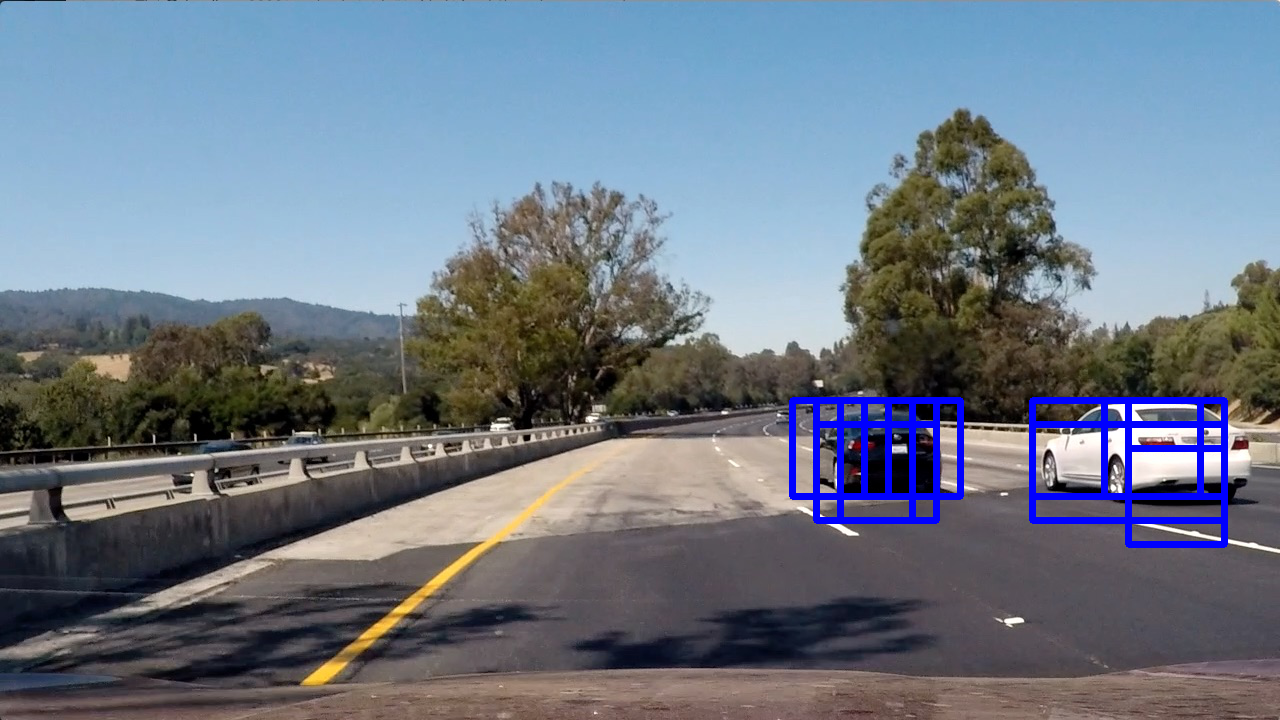
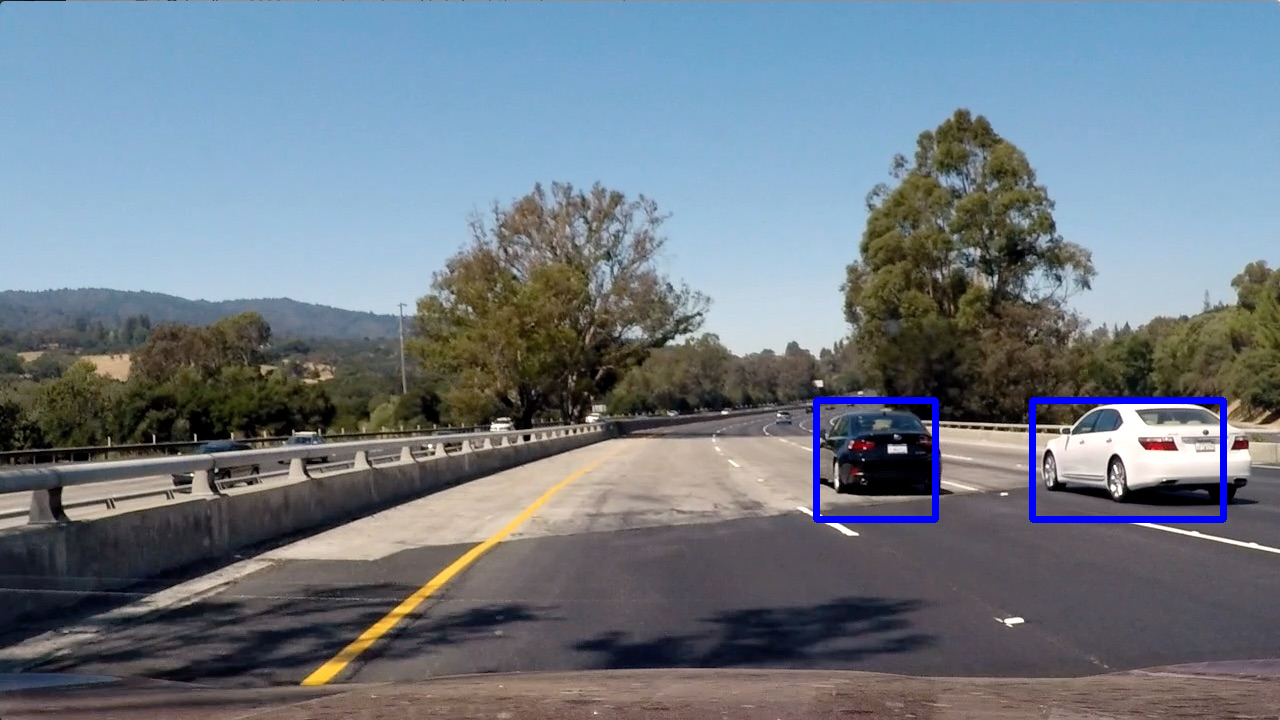
Draw boxes

Changed region(s): [[0.8125, 0.55, 0.9688, 0.7639], [0.5938, 0.55, 0.75, 0.7333]]

diff --git a/pipeline.py b/pipeline.py
@@ -5,6 +5,7 @@ import pickle
 import matplotlib.pyplot as plt
 import matplotlib.image as mpimg
 from lesson_functions import *
+from scipy.ndimage.measurements import label
 
 dist_pickle = pickle.load( open("svc_pickle.p", "rb" ) )
 svc = dist_pickle["svc"]
@@ -42,9 +43,32 @@ class Pipeline():
         ystop = 656
         scale = 1.5
 
-        out_img = find_cars(self.image, ystart, ystop, scale, svc, X_scaler, orient, pix_per_cell, cell_per_block, spatial_size, hist_bins)
+        out_img, img_boxes = find_cars(self.image, ystart, ystop, scale, svc, X_scaler, orient, pix_per_cell, cell_per_block, spatial_size, hist_bins)
 
-        return out_img
+        heat = np.zeros_like(self.image[:,:,0]).astype(np.float)
+        heat = add_heat(heat, img_boxes)
+
+        # Apply threshold to help remove false positives
+        heat = apply_threshold(heat,1)
+
+        # Visualize the heatmap when displaying
+        heatmap = np.clip(heat, 0, 255)
+
+        # Find final boxes from heatmap using label function
+        labels = label(heatmap)
+        draw_img = draw_labeled_bboxes(np.copy(self.image), labels)
+
+        fig = plt.figure()
+        plt.subplot(121)
+        plt.imshow(draw_img)
+        plt.title('Car Positions')
+        plt.subplot(122)
+        plt.imshow(heatmap, cmap='hot')
+        plt.title('Heat Map')
+        plt.savefig("./output_images/plot.jpg")
+        fig.tight_layout()
+
+        return draw_img
 
 class ProcessImages():
     def run_pipeline(self, image, save_image=False):

diff --git a/lesson_functions.py b/lesson_functions.py
@@ -283,6 +283,7 @@ def search_windows(img, windows, clf, scaler, color_space='RGB',
 def find_cars(img, ystart, ystop, scale, svc, X_scaler, orient, pix_per_cell, cell_per_block, spatial_size, hist_bins):
     draw_img = np.copy(img)
     img = img.astype(np.float32)/255
+    img_boxes = []
 
     img_tosearch = img[ystart:ystop,:,:]
     ctrans_tosearch = convert_color(img_tosearch, conv='RGB2YCrCb')
@@ -341,8 +342,10 @@ def find_cars(img, ystart, ystop, scale, svc, X_scaler, orient, pix_per_cell, ce
                 ytop_draw = np.int(ytop*scale)
                 win_draw = np.int(window*scale)
                 cv2.rectangle(draw_img,(xbox_left, ytop_draw+ystart),(xbox_left+win_draw,ytop_draw+win_draw+ystart),(0,0,255),6)
+                img_boxes.append(((xbox_left,
+                    ytop_draw+ystart),(xbox_left+win_draw,ytop_draw+win_draw+ystart),(0,0,255)))
 
-    return draw_img
+    return draw_img, img_boxes
 
 def convert_color(img, conv='RGB2YCrCb'):
     if conv == 'RGB2YCrCb':
